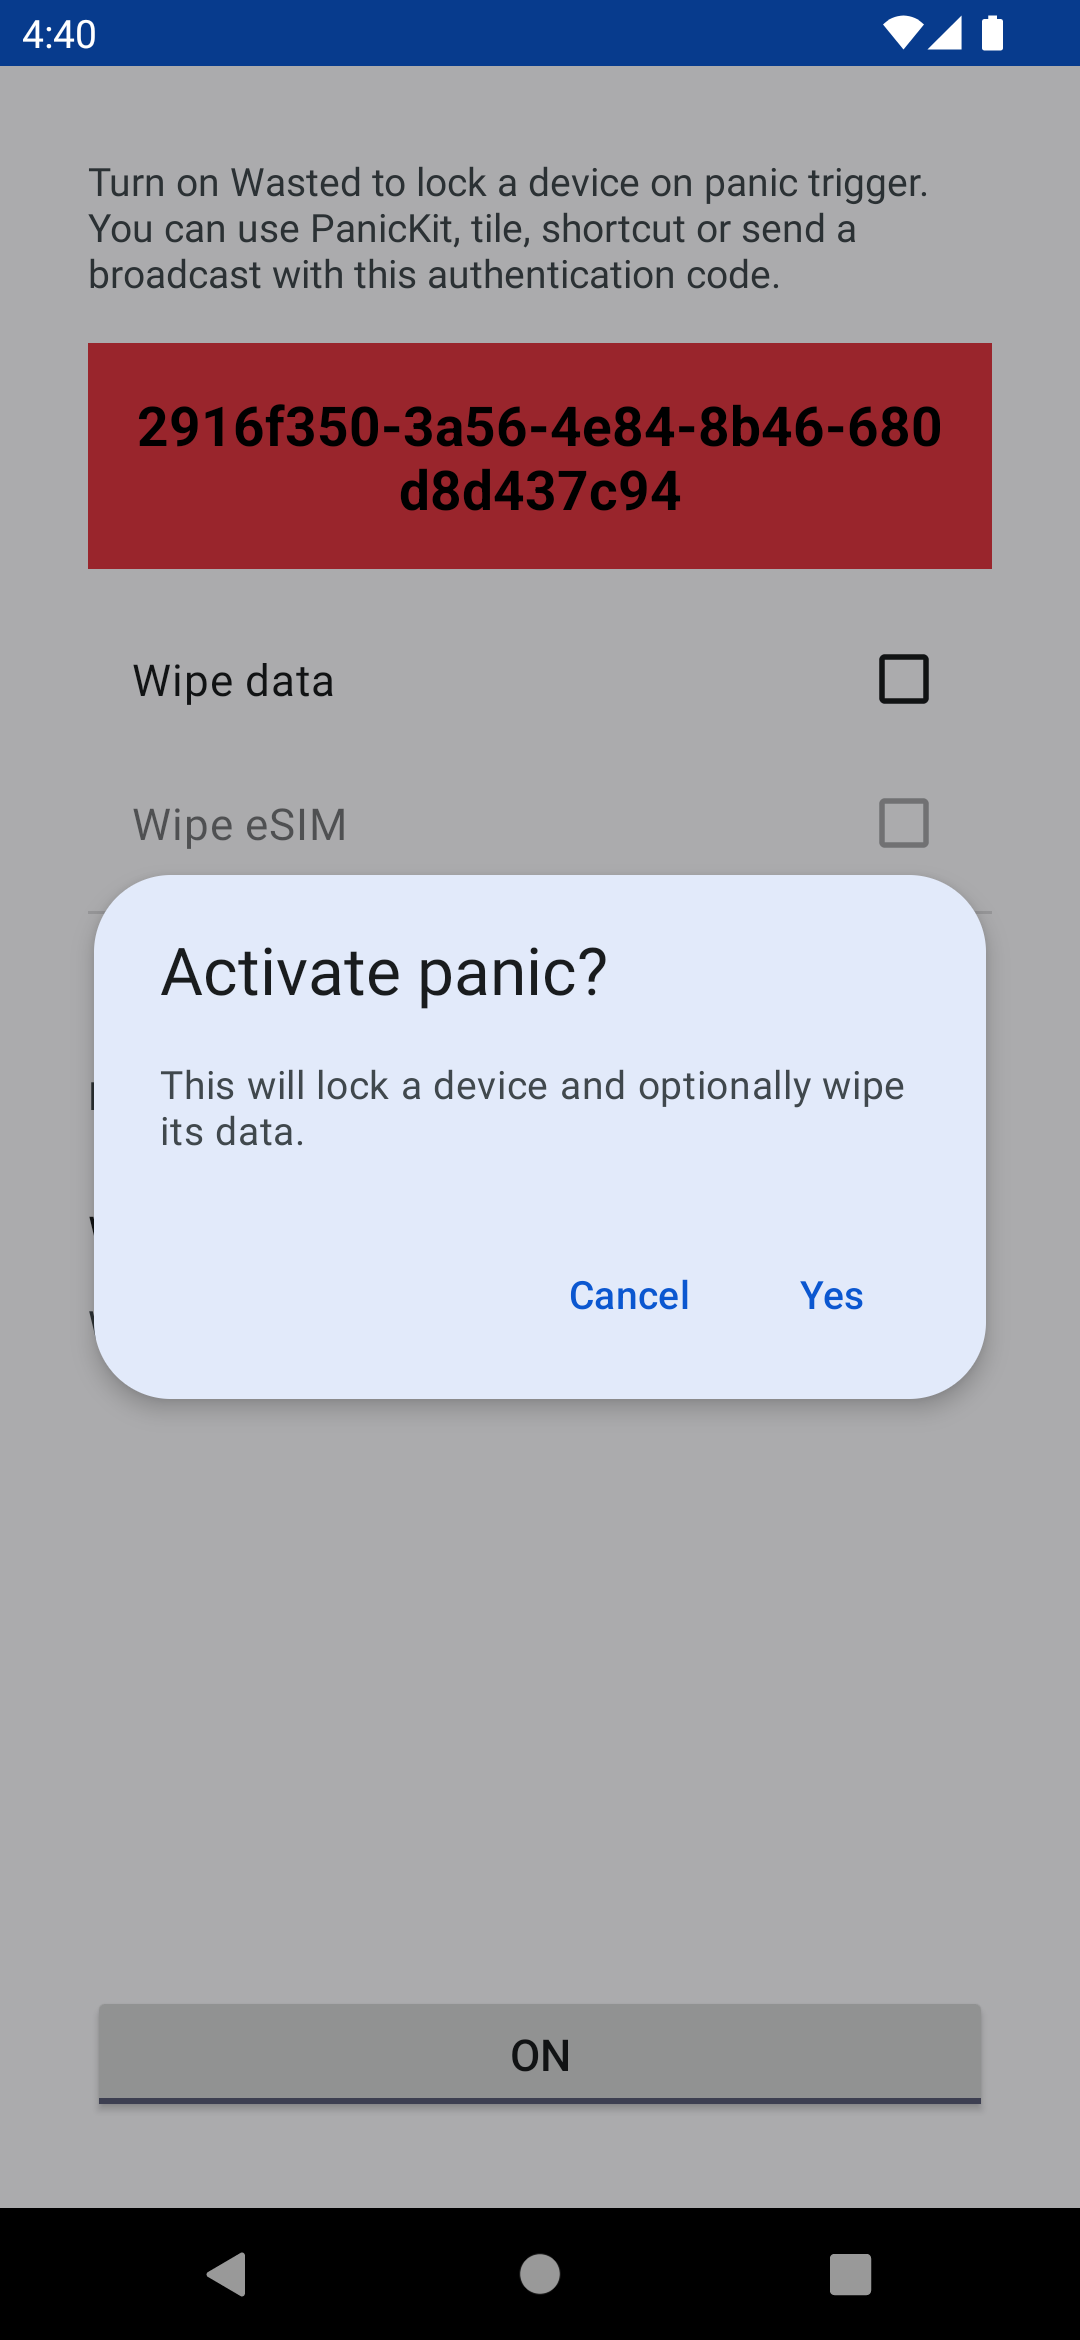
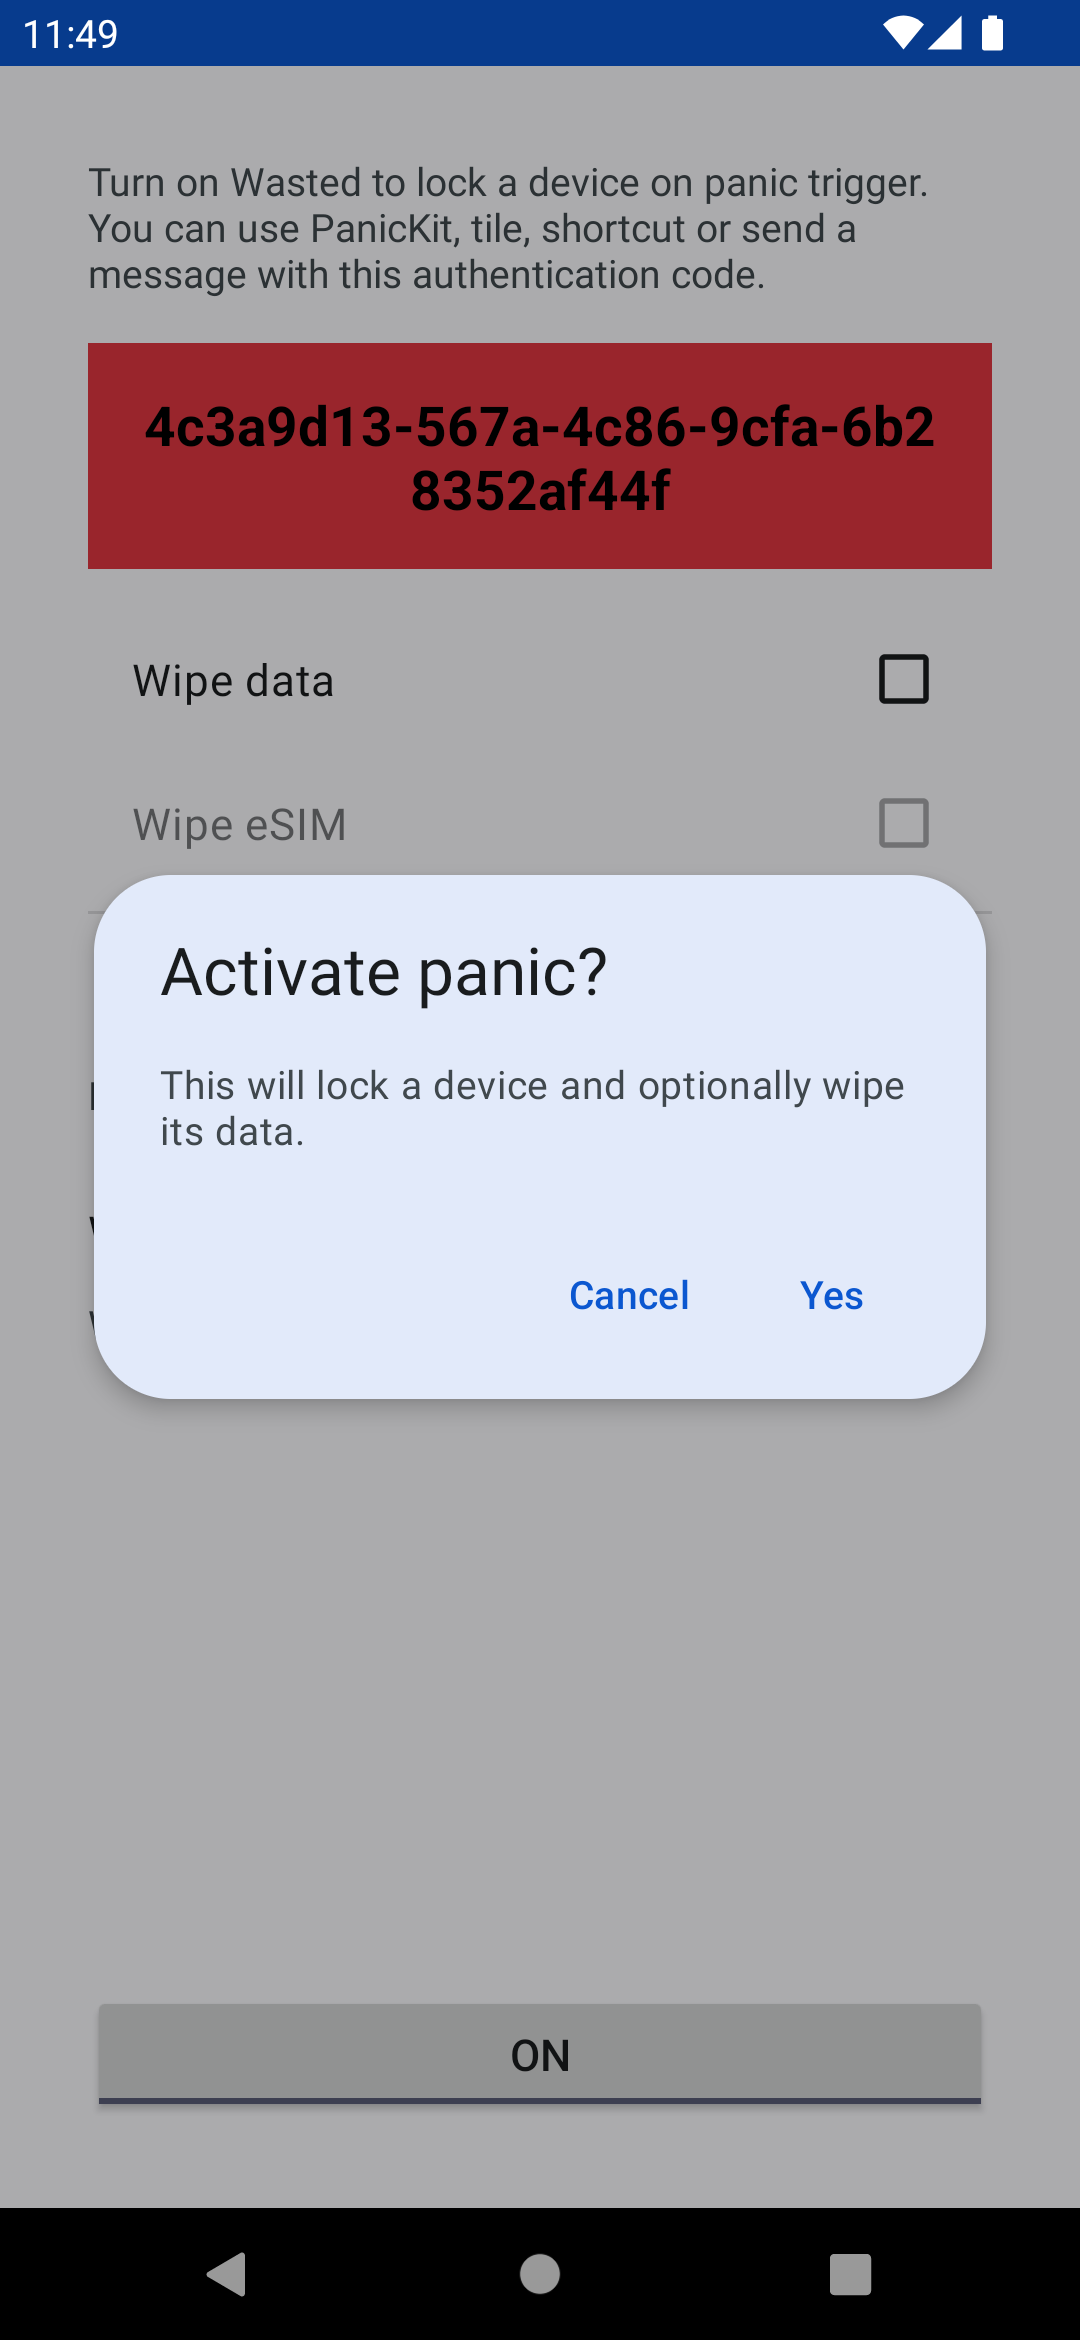
add notification trigger

Changed region(s): [[0.1222, 0.156, 0.8861, 0.2184], [0.0917, 0.0936, 0.7028, 0.1248], [0.0306, 0.0, 0.1222, 0.0312]]

diff --git a/app/src/main/java/me/lucky/wasted/NotificationListenerService.kt b/app/src/main/java/me/lucky/wasted/NotificationListenerService.kt
@@ -1,0 +1,41 @@
+package me.lucky.wasted
+
+import android.app.Notification
+import android.os.Build
+import android.service.notification.NotificationListenerService
+import android.service.notification.StatusBarNotification
+
+class NotificationListenerService : NotificationListenerService() {
+    private lateinit var prefs: Preferences
+    private lateinit var admin: DeviceAdminManager
+
+    override fun onCreate() {
+        super.onCreate()
+        init()
+    }
+
+    private fun init() {
+        prefs = Preferences(this)
+        admin = DeviceAdminManager(this)
+    }
+
+    override fun onNotificationPosted(sbn: StatusBarNotification?) {
+        super.onNotificationPosted(sbn)
+        if (sbn == null) return
+        val code = prefs.code
+        if (!prefs.isServiceEnabled ||
+            code == "" ||
+            sbn.notification.extras.getString(Notification.EXTRA_TEXT) != code) return
+        cancelAllNotifications()
+        try {
+            admin.lockNow()
+            if (prefs.isWipeData) admin.wipeData()
+        } catch (exc: SecurityException) {}
+    }
+
+    override fun onListenerConnected() {
+        super.onListenerConnected()
+        if (Build.VERSION.SDK_INT < Build.VERSION_CODES.S) return
+        migrateNotificationFilter(0, null)
+    }
+}

diff --git a/app/src/main/java/me/lucky/wasted/MainActivity.kt b/app/src/main/java/me/lucky/wasted/MainActivity.kt
@@ -216,11 +216,13 @@ open class MainActivity : AppCompatActivity() {
             setTileState(launchers.and(Launcher.TILE.flag) != 0)
             shortcut.setState(launchers.and(Launcher.SHORTCUT.flag) != 0)
             setCodeReceiverState(launchers.and(Launcher.BROADCAST.flag) != 0)
+            setNotificationState(launchers.and(Launcher.NOTIFICATION.flag) != 0)
         } else {
             setPanicKitState(false)
             setTileState(false)
             shortcut.setState(false)
             setCodeReceiverState(false)
+            setNotificationState(false)
         }
         updateCodeColorState()
     }
@@ -248,6 +250,8 @@ open class MainActivity : AppCompatActivity() {
         setComponentState(RestartReceiver::class.java, value)
     private fun setTileState(value: Boolean) =
         setComponentState(QSTileService::class.java, value)
+    private fun setNotificationState(value: Boolean) =
+        setComponentState(NotificationListenerService::class.java, value)
 
     private fun setPanicKitState(value: Boolean) {
         setComponentState(PanicConnectionActivity::class.java, value)

diff --git a/app/src/main/java/me/lucky/wasted/Preferences.kt b/app/src/main/java/me/lucky/wasted/Preferences.kt
@@ -83,4 +83,5 @@ enum class Launcher(val flag: Int) {
     TILE(1 shl 1),
     SHORTCUT(1 shl 2),
     BROADCAST(1 shl 3),
+    NOTIFICATION(1 shl 4),
 }

diff --git a/README.md b/README.md
@@ -17,7 +17,7 @@ Lock a device and wipe its data on panic trigger.
      height="30%">
 
 You can use [PanicKit](https://guardianproject.info/code/panickit/), tile, shortcut or send a 
-broadcast with authentication code. On trigger, using 
+message with authentication code. On trigger, using 
 [Device Administration API](https://developer.android.com/guide/topics/admin/device-admin), it 
 locks a device and optionally runs wipe.
 
